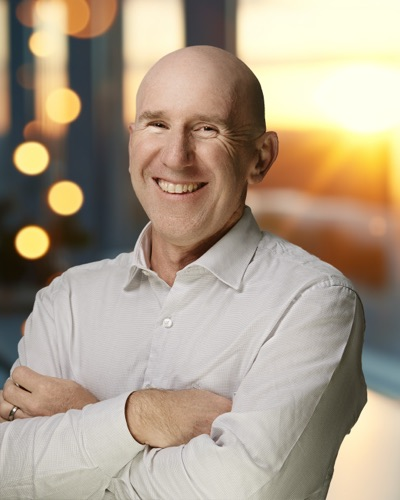
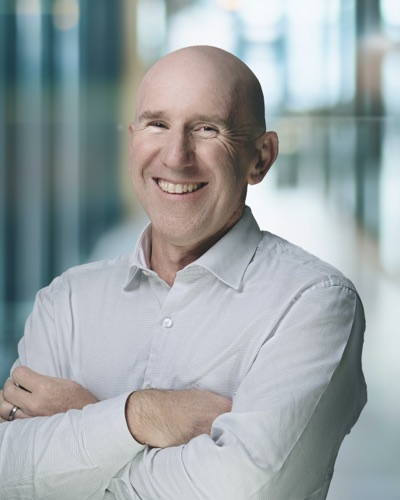
Identity: up to six sizes for each image; second setting on the sheet
- New "Up to six sizes for each image" block: one photograph (Look 3, 3679,
  white) cropped for a profile photo, feed post, story, email signature,
  website and slides, and a LinkedIn banner. Labels describe use; a two-row
  grid keeps every label on one line at every width.
- Sheet intro now says each sheet comes with up to six sizes for each image;
  "in six formats" removed from the Identity package line.
- Identity sheet: Look 5 tile moved from the skyline to the glass corridor,
  so both settings show clearly.
- CSS cache version bumped on every page.

diff --git a/portraits/index.html b/portraits/index.html
@@ -45,7 +45,7 @@
 <link rel="apple-touch-icon" href="/apple-touch-icon.png">
 <link rel="preload" href="/fonts/inter-400.v1.woff2" as="font" type="font/woff2" crossorigin>
 <link rel="preload" href="/fonts/lora-600.v1.woff2" as="font" type="font/woff2" crossorigin>
-<link rel="stylesheet" href="/css/site.css?v=20261015h">
+<link rel="stylesheet" href="/css/site.css?v=20261016e">
 <script type="application/ld+json">
 {
   "@context": "https://schema.org",
@@ -178,7 +178,7 @@
         </div>
         <div class="pkg">
           <div class="pkg-head"><h3>Identity library</h3><p class="price"><data value="1600">$1,600</data></p></div>
-          <p>A planning conversation, then twelve photographs across up to six looks, on studio backgrounds, in your brand colours or in agreed settings, in six formats. Masters kept for three years.</p>
+          <p>A planning conversation, then twelve photographs across up to six looks, on studio backgrounds, in your brand colours or in agreed settings. Masters kept for three years.</p>
         </div>
         <div class="pkg">
           <div class="pkg-head"><h3>Teams</h3><p class="price"><data value="1850">$1,850</data></p></div>
@@ -198,7 +198,7 @@
   <div class="record-main">
     <section class="ladder record-lead" aria-labelledby="sheets-h">
       <h2 id="sheets-h" class="section-title">What each package contains</h2>
-      <p class="body-text">Each sheet shows the whole package.</p>
+      <p class="body-text">Each sheet shows the whole package, with up to six sizes for each image.</p>
 
       <figure class="ladder-sheet" id="sheet-headshot">
         <div class="ladder-head"><h3>Headshot</h3><p class="price"><data value="550">$550</data></p></div>
@@ -238,11 +238,26 @@
           <img class="frame-4x5" src="/images/v2/package-identity-7-400.jpg" width="400" height="500" alt="Dr Anthony Walker, Look 4, open blazer, studio black" loading="lazy" decoding="async">
           <img class="frame-4x5" src="/images/v2/package-identity-8-400.jpg" width="400" height="500" alt="Dr Anthony Walker, Look 4, open blazer, on the practice's bronze" loading="lazy" decoding="async">
           <img class="frame-4x5" src="/images/v2/package-identity-9-400.jpg" width="400" height="500" alt="Dr Anthony Walker, Look 5, white shirt, studio white" loading="lazy" decoding="async">
-          <img class="frame-4x5" src="/images/v2/package-identity-10-400.jpg" width="400" height="500" alt="Dr Anthony Walker, Look 5, white shirt, in a city skyline setting" loading="lazy" decoding="async">
+          <img class="frame-4x5" src="/images/v2/package-identity-10-400.jpg" width="400" height="500" alt="Dr Anthony Walker, Look 5, white shirt, in a glass corridor setting" loading="lazy" decoding="async">
           <img class="frame-4x5" src="/images/v2/package-identity-11-400.jpg" width="400" height="500" alt="Dr Anthony Walker, Look 6, OHP branded polo, studio black" loading="lazy" decoding="async">
           <img class="frame-4x5" src="/images/v2/package-identity-12-400.jpg" width="400" height="500" alt="Dr Anthony Walker, Look 6, OHP branded polo, on the practice's navy" loading="lazy" decoding="async">
         </div>
         <figcaption class="caption">Twelve photographs from six looks, on white, black, brand colours and in two settings. Dr Anthony Walker, from one 54-minute session. <a class="text-link" href="/evidence/walker-ohp/">Read how it was built</a></figcaption>
+      </figure>
+
+      <figure class="ladder-sheet" id="sheet-sizes">
+        <div class="ladder-head"><h3>Up to six sizes for each image</h3></div>
+        <div class="sizes-row sizes-row--a">
+          <div class="size size--square"><img src="/images/v2/sizes-square-600.jpg" width="600" height="600" alt="Dr Anthony Walker in a suit and red tie on white, cropped for a profile photo" loading="lazy" decoding="async"><p class="caption">Profile photo</p></div>
+          <div class="size size--portrait"><img src="/images/v2/sizes-portrait-600.jpg" width="600" height="750" alt="The same photograph cropped for a feed post" loading="lazy" decoding="async"><p class="caption">Feed post</p></div>
+          <div class="size size--tall"><img src="/images/v2/sizes-tall-450.jpg" width="450" height="800" alt="The same photograph cropped for a story" loading="lazy" decoding="async"><p class="caption">Story</p></div>
+          <div class="size size--profile"><img src="/images/v2/sizes-profile-320.jpg" width="320" height="320" alt="The same photograph cropped for an email signature" loading="lazy" decoding="async"><p class="caption">Email signature</p></div>
+        </div>
+        <div class="sizes-row sizes-row--b">
+          <div class="size size--wide"><img src="/images/v2/sizes-wide-1200.jpg" width="1200" height="675" alt="The same photograph cropped for a website or slide, with room for a headline" loading="lazy" decoding="async"><p class="caption">Website and slides</p></div>
+          <div class="size size--banner"><img src="/images/v2/sizes-banner-1584.jpg" width="1584" height="396" alt="The same photograph cropped for a LinkedIn banner" loading="lazy" decoding="async"><p class="caption">LinkedIn banner</p></div>
+        </div>
+        <figcaption class="caption">One photograph, cropped for each place it appears.</figcaption>
       </figure>
     </section>
 

diff --git a/css/site.css b/css/site.css
@@ -652,6 +652,21 @@ figure > figcaption.caption { margin-top: var(--space-xs); }
 .ladder-grid img { display: block; width: 100%; height: auto; }
 .ladder-sheet figcaption { margin-top: var(--space-xs); }
 
+/* One photograph in its six sizes: each row keeps one height, images sit on
+   a common baseline so the labels start on one line */
+.sizes-row {
+  display: grid; grid-auto-flow: column; grid-template-rows: auto auto;
+  column-gap: var(--space-xs); row-gap: var(--space-2xs);
+}
+.sizes-row--a { grid-template-columns: minmax(0, 1fr) minmax(0, 0.8fr) minmax(0, 0.5625fr) minmax(0, 0.7fr); }
+/* The email-signature crop is half the row height; its column is wider so the label fits */
+.size.size--profile img { width: 71.43%; }
+.sizes-row--b { grid-template-columns: minmax(0, 1.7778fr) minmax(0, 4fr); }
+.sizes-row + .sizes-row { margin-top: var(--space-m); }
+.size { display: contents; }
+.size img { grid-row: 1; align-self: end; display: block; width: 100%; height: auto; }
+.size .caption { grid-row: 2; align-self: start; }
+
 /* Group price table */
 .price-table { width: 100%; max-width: 36rem; border-collapse: collapse; border-top: var(--rule) solid var(--rule-light); }
 .price-table caption { caption-side: bottom; text-align: left; padding-top: var(--space-xs); }

diff --git a/index.html b/index.html
@@ -46,7 +46,7 @@
 <link rel="preload" href="/fonts/inter-400.v1.woff2" as="font" type="font/woff2" crossorigin>
 <link rel="preload" href="/fonts/lora-600.v1.woff2" as="font" type="font/woff2" crossorigin>
 <link rel="preload" as="image" href="/images/v2/hero-lucy-nash-u21-1200.jpg" imagesrcset="/images/v2/hero-lucy-nash-u21-800.jpg 800w, /images/v2/hero-lucy-nash-u21-1200.jpg 1200w, /images/v2/hero-lucy-nash-u21-1600.jpg 1600w" imagesizes="(min-width: 64em) min(48.75rem, 58vw), (min-width: 40em) calc(100vw - 4rem), 100vw" fetchpriority="high">
-<link rel="stylesheet" href="/css/site.css?v=20261015h">
+<link rel="stylesheet" href="/css/site.css?v=20261016e">
 <script type="application/ld+json">
 {
   "@context": "https://schema.org",

diff --git a/sports-photography-canberra/index.html b/sports-photography-canberra/index.html
@@ -46,7 +46,7 @@
 <link rel="preload" href="/fonts/inter-400.v1.woff2" as="font" type="font/woff2" crossorigin>
 <link rel="preload" as="image" href="/images/v2/poster-invictus-australia-defence-community-sport-expo-2025-960.jpg" fetchpriority="high">
 <link rel="preload" href="/fonts/lora-600.v1.woff2" as="font" type="font/woff2" crossorigin>
-<link rel="stylesheet" href="/css/site.css?v=20261015h">
+<link rel="stylesheet" href="/css/site.css?v=20261016e">
 <script type="application/ld+json">
 {
   "@context": "https://schema.org",

diff --git a/about/index.html b/about/index.html
@@ -45,7 +45,7 @@
 <link rel="apple-touch-icon" href="/apple-touch-icon.png">
 <link rel="preload" href="/fonts/inter-400.v1.woff2" as="font" type="font/woff2" crossorigin>
 <link rel="preload" href="/fonts/lora-600.v1.woff2" as="font" type="font/woff2" crossorigin>
-<link rel="stylesheet" href="/css/site.css?v=20261015h">
+<link rel="stylesheet" href="/css/site.css?v=20261016e">
 <script type="application/ld+json">
 {
   "@context": "https://schema.org",

diff --git a/evidence/100sqn-warbirds-scone/index.html b/evidence/100sqn-warbirds-scone/index.html
@@ -45,7 +45,7 @@
 <link rel="apple-touch-icon" href="/apple-touch-icon.png">
 <link rel="preload" href="/fonts/inter-400.v1.woff2" as="font" type="font/woff2" crossorigin>
 <link rel="preload" href="/fonts/lora-600.v1.woff2" as="font" type="font/woff2" crossorigin>
-<link rel="stylesheet" href="/css/site.css?v=20261015h">
+<link rel="stylesheet" href="/css/site.css?v=20261016e">
 <script type="application/ld+json">
 {
   "@context": "https://schema.org",

diff --git a/evidence/act-gridiron-flag-football/index.html b/evidence/act-gridiron-flag-football/index.html
@@ -45,7 +45,7 @@
 <link rel="apple-touch-icon" href="/apple-touch-icon.png">
 <link rel="preload" href="/fonts/inter-400.v1.woff2" as="font" type="font/woff2" crossorigin>
 <link rel="preload" href="/fonts/lora-600.v1.woff2" as="font" type="font/woff2" crossorigin>
-<link rel="stylesheet" href="/css/site.css?v=20261015h">
+<link rel="stylesheet" href="/css/site.css?v=20261016e">
 <script type="application/ld+json">
 {
   "@context": "https://schema.org",

diff --git a/evidence/afl-canberra-media-day/index.html b/evidence/afl-canberra-media-day/index.html
@@ -45,7 +45,7 @@
 <link rel="apple-touch-icon" href="/apple-touch-icon.png">
 <link rel="preload" href="/fonts/inter-400.v1.woff2" as="font" type="font/woff2" crossorigin>
 <link rel="preload" href="/fonts/lora-600.v1.woff2" as="font" type="font/woff2" crossorigin>
-<link rel="stylesheet" href="/css/site.css?v=20261015h">
+<link rel="stylesheet" href="/css/site.css?v=20261016e">
 <script type="application/ld+json">
 {
   "@context": "https://schema.org",

diff --git a/evidence/cross-sector-deployment/index.html b/evidence/cross-sector-deployment/index.html
@@ -45,7 +45,7 @@
 <link rel="apple-touch-icon" href="/apple-touch-icon.png">
 <link rel="preload" href="/fonts/inter-400.v1.woff2" as="font" type="font/woff2" crossorigin>
 <link rel="preload" href="/fonts/lora-600.v1.woff2" as="font" type="font/woff2" crossorigin>
-<link rel="stylesheet" href="/css/site.css?v=20261015h">
+<link rel="stylesheet" href="/css/site.css?v=20261016e">
 <script type="application/ld+json">
 {
   "@context": "https://schema.org",

diff --git a/evidence/hockey-act-athlete-identity/index.html b/evidence/hockey-act-athlete-identity/index.html
@@ -45,7 +45,7 @@
 <link rel="apple-touch-icon" href="/apple-touch-icon.png">
 <link rel="preload" href="/fonts/inter-400.v1.woff2" as="font" type="font/woff2" crossorigin>
 <link rel="preload" href="/fonts/lora-600.v1.woff2" as="font" type="font/woff2" crossorigin>
-<link rel="stylesheet" href="/css/site.css?v=20261015h">
+<link rel="stylesheet" href="/css/site.css?v=20261016e">
 <script type="application/ld+json">
 {
   "@context": "https://schema.org",

diff --git a/evidence/index.html b/evidence/index.html
@@ -45,7 +45,7 @@
 <link rel="apple-touch-icon" href="/apple-touch-icon.png">
 <link rel="preload" href="/fonts/inter-400.v1.woff2" as="font" type="font/woff2" crossorigin>
 <link rel="preload" href="/fonts/lora-600.v1.woff2" as="font" type="font/woff2" crossorigin>
-<link rel="stylesheet" href="/css/site.css?v=20261015h">
+<link rel="stylesheet" href="/css/site.css?v=20261016e">
 <script type="application/ld+json">
 {
   "@context": "https://schema.org",

diff --git a/evidence/walker-ohp/index.html b/evidence/walker-ohp/index.html
@@ -45,7 +45,7 @@
 <link rel="apple-touch-icon" href="/apple-touch-icon.png">
 <link rel="preload" href="/fonts/inter-400.v1.woff2" as="font" type="font/woff2" crossorigin>
 <link rel="preload" href="/fonts/lora-600.v1.woff2" as="font" type="font/woff2" crossorigin>
-<link rel="stylesheet" href="/css/site.css?v=20261015h">
+<link rel="stylesheet" href="/css/site.css?v=20261016e">
 <script type="application/ld+json">
 {
   "@context": "https://schema.org",
